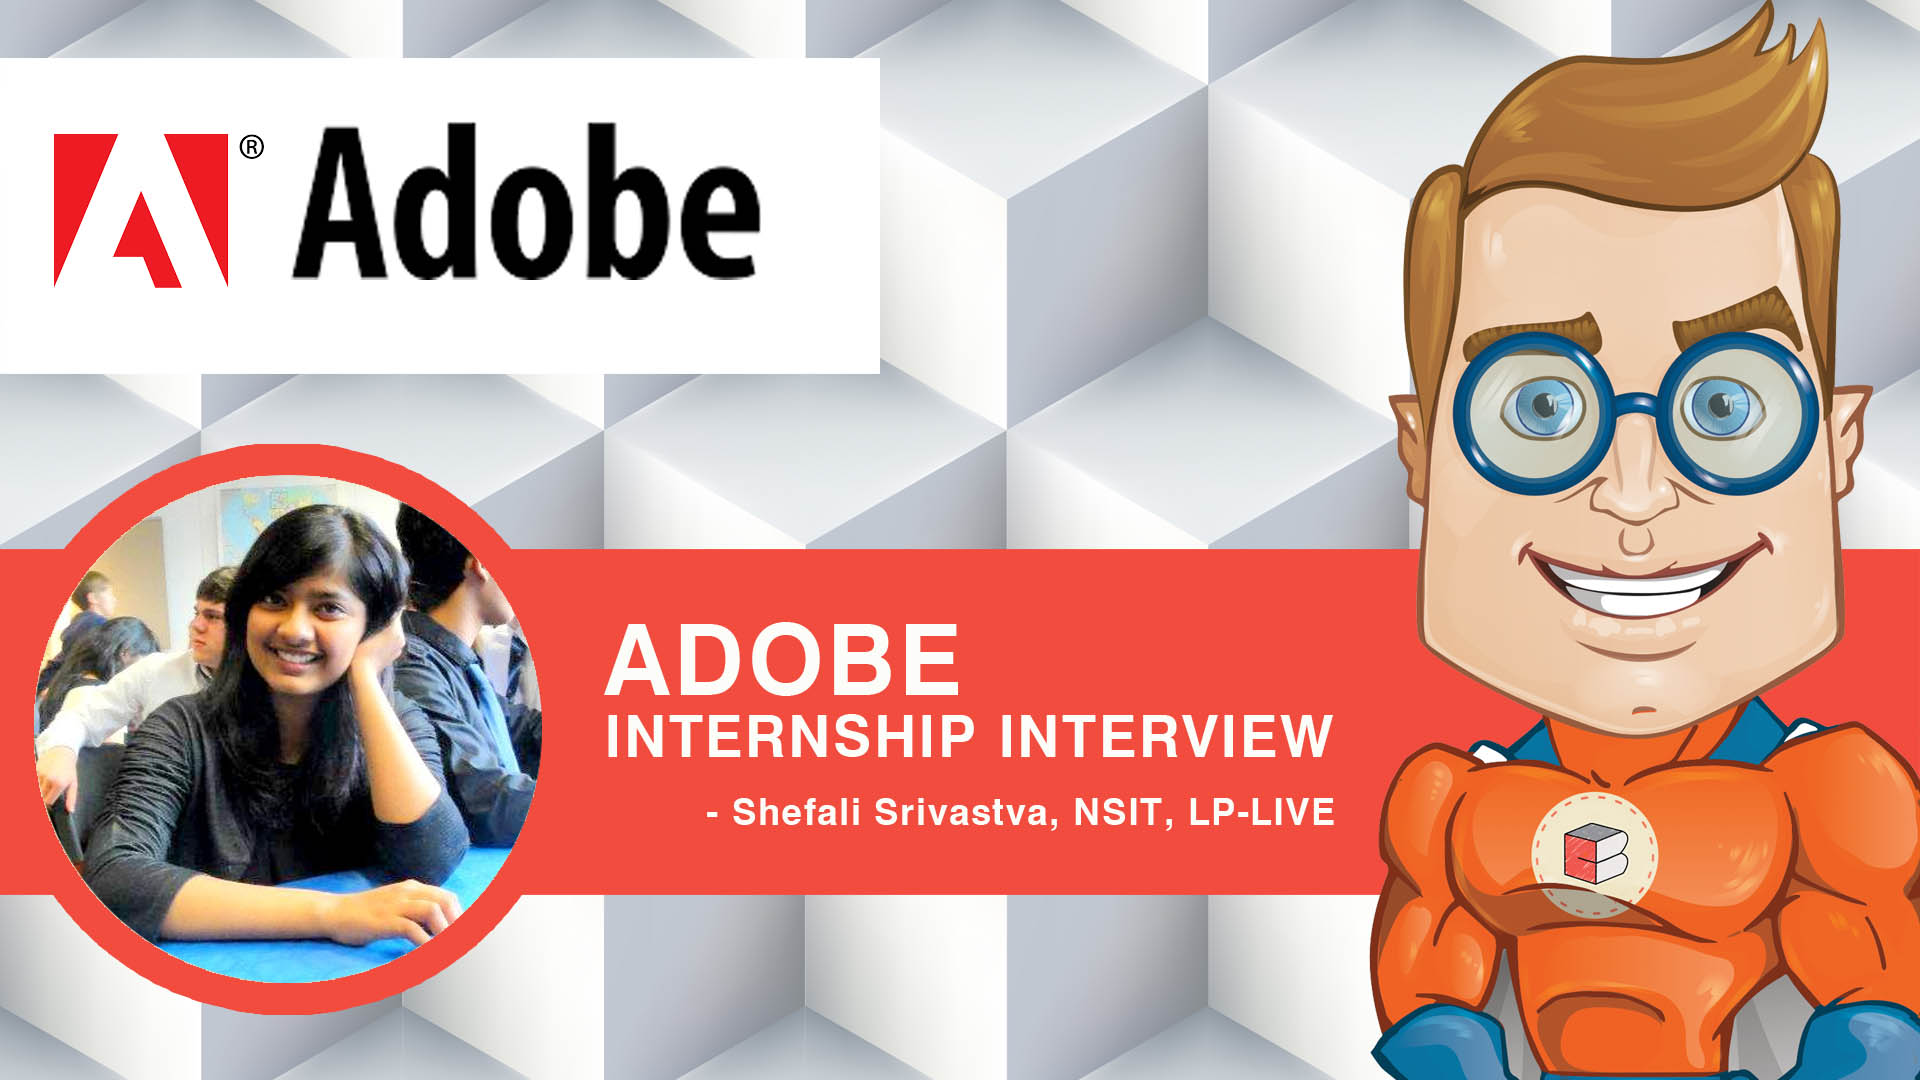
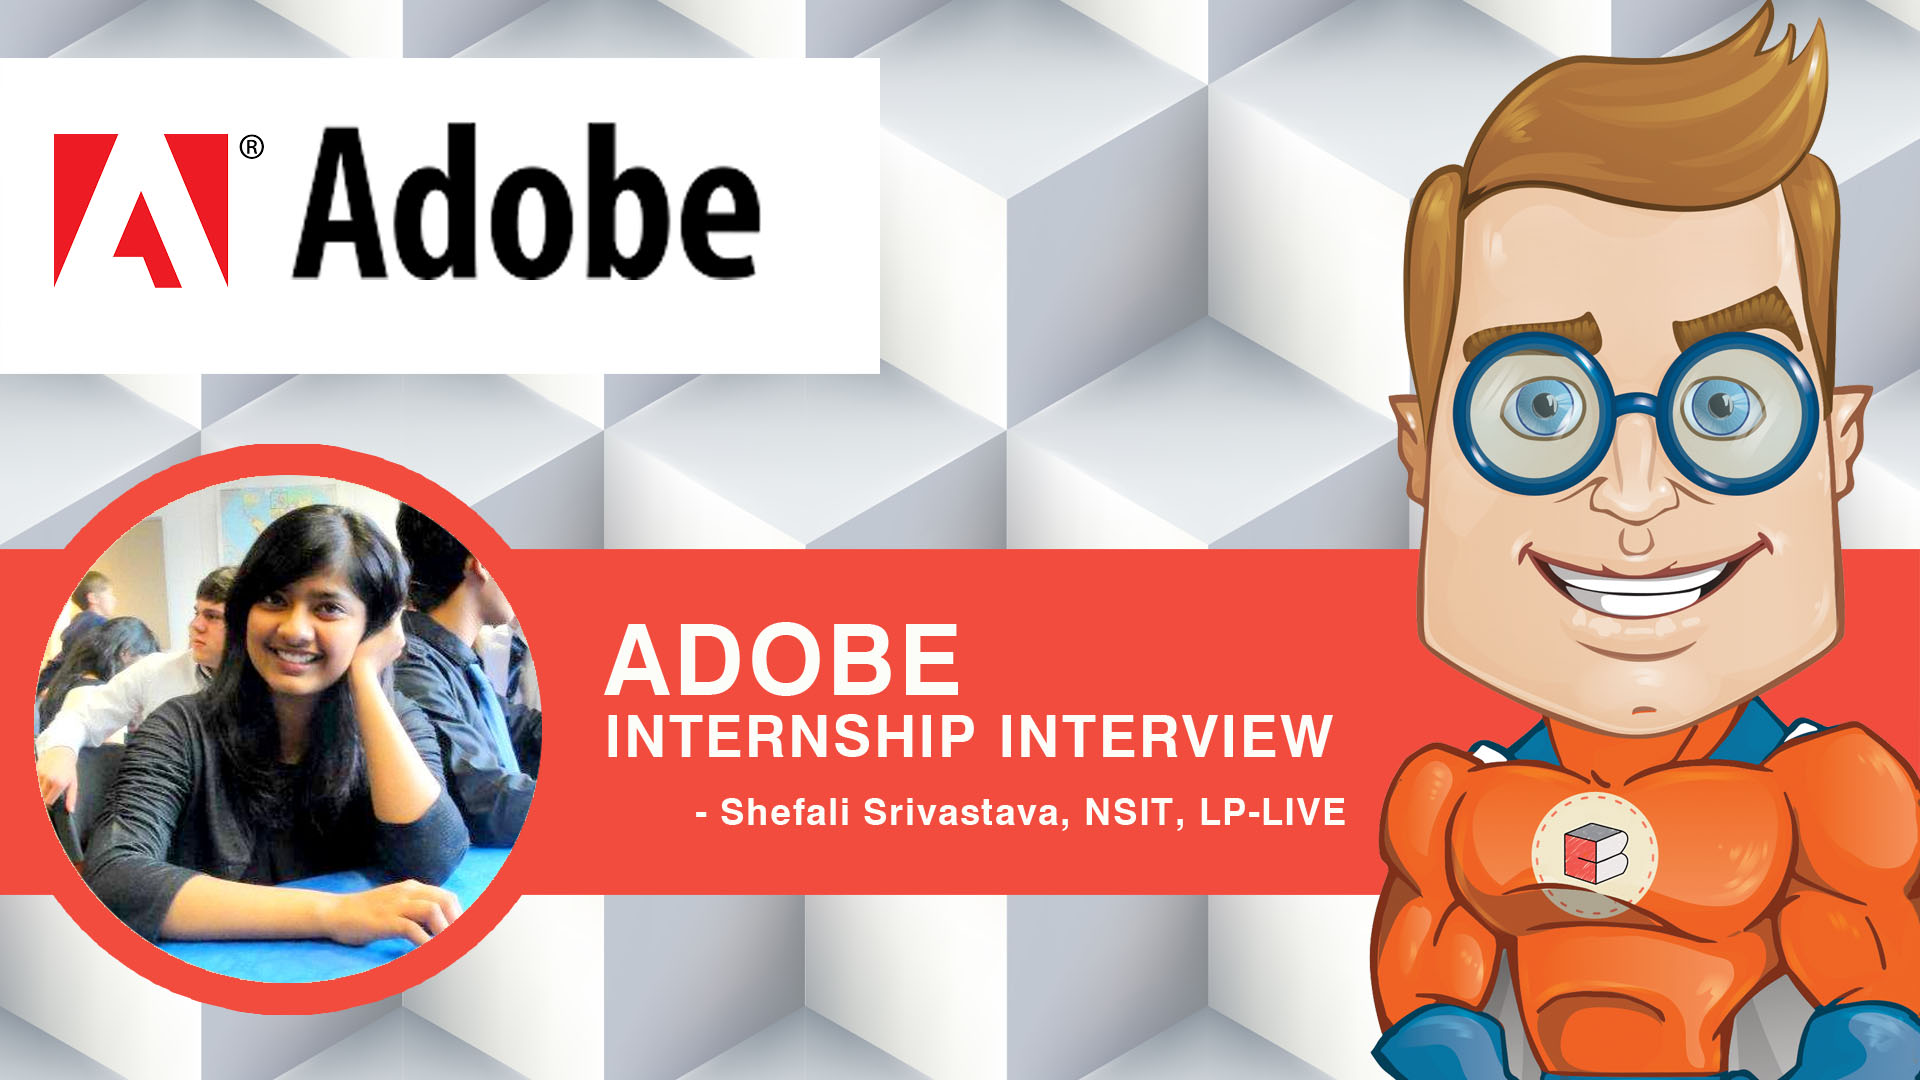
spelling mistakes

Changed region(s): [[0.375, 0.7333, 0.7188, 0.7639]]

diff --git a/_posts/2017-08-05-iq-adobe-shefali.md b/_posts/2017-08-05-iq-adobe-shefali.md
@@ -1,6 +1,6 @@
 ---
 layout: post
-title:  "Adobe's Six Interview Rounds and NSIT's Shefali Srivastva sails through !"
+title:  "Adobe's Six Interview Rounds and NSIT's Shefali Srivastava sails through !"
 categories: [Interview Experience]
 image: "shefali.jpg"
 ---
@@ -82,8 +82,10 @@ Construct a stack using two queues.
 ### **ROUND 5 - Technical Interview**
 
 **Q1:** Write a sorting algorithm that uses O(N) space and O(N) time.
-Find a node reachable from every other node in DAG.
-In an array find 4 indices such that a[i] + a[j] = a[k] + a[l]
+
+**Q2:** Find a node reachable from every other node in DAG.
+
+**Q3:** In an array find 4 indices such that a[i] + a[j] = a[k] + a[l]
 
 ### **ROUND 6 - HR Interview** 
 
